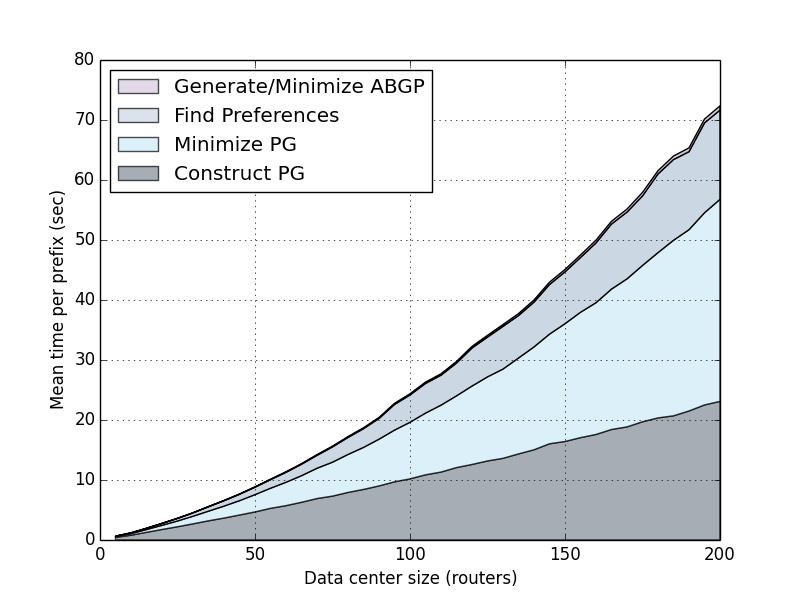
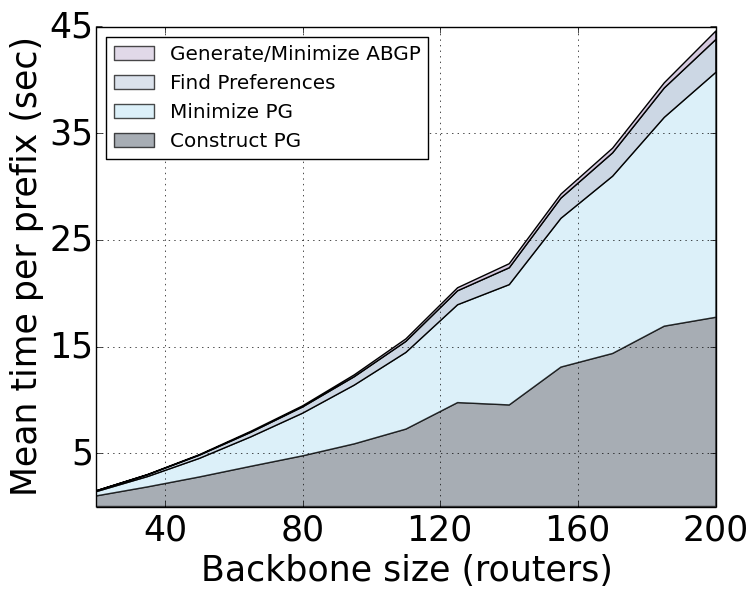
updating experiments

diff --git a/data/backbone.py b/data/backbone.py
@@ -32,16 +32,16 @@ with open(direct + os.path.sep + 'stats-backbone.csv') as f:
     tpp_compress_mean.append(row[25])
 
 # remove header info, and convert type
-num_pods = map(int, num_pods[2:])
-num_nodes = map(int, num_nodes[2:])
-sizes_raw = map(int, sizes_raw[2:])
-sizes_compressed = map(int, sizes_compressed[2:])
-tpp_total_mean = map(float, tpp_total_mean[2:])
-tpp_build_mean = map(float, tpp_build_mean[2:])
-tpp_minimize_mean = map(float, tpp_minimize_mean[2:])
-tpp_order_mean = map(float, tpp_order_mean[2:])
-tpp_gen_mean = map(float, tpp_gen_mean[2:])
-tpp_compress_mean = map(float, tpp_compress_mean[2:])
+num_pods = map(int, num_pods[1:])
+num_nodes = map(int, num_nodes[1:])
+sizes_raw = map(int, sizes_raw[1:])
+sizes_compressed = map(int, sizes_compressed[1:])
+tpp_total_mean = map(float, tpp_total_mean[1:])
+tpp_build_mean = map(float, tpp_build_mean[1:])
+tpp_minimize_mean = map(float, tpp_minimize_mean[1:])
+tpp_order_mean = map(float, tpp_order_mean[1:])
+tpp_gen_mean = map(float, tpp_gen_mean[1:])
+tpp_compress_mean = map(float, tpp_compress_mean[1:])
 
 #====================================================
 # 
@@ -77,11 +77,12 @@ ax1.fill_between(num_nodes, 0, y_stack[0,:], facecolor=color1, alpha=.7)
 ax1.fill_between(num_nodes, y_stack[0,:], y_stack[1,:], facecolor=color2, alpha=.7)
 ax1.fill_between(num_nodes, y_stack[1,:], y_stack[2,:], facecolor=color3)
 ax1.fill_between(num_nodes, y_stack[2,:], y_stack[3,:], facecolor=color4)
-#ax1.fill_between(num_nodes, y_stack[3,:], y_stack[4,:], facecolor=color5)
-ax1.set_xlabel('Backbone size (routers)', fontsize=20)
-ax1.set_ylabel('Mean time per prefix (sec)', fontsize=20)
-ax1.tick_params(axis='both', which='major', labelsize=18)
-ax1.tick_params(axis='both', which='minor', labelsize=18)
+ax1.set_xlabel('Routers', fontsize=35)
+ax1.set_ylabel('Avg. Time / Prefix (s)', fontsize=35)
+ax1.tick_params(axis='both', which='major', labelsize=35)
+ax1.tick_params(axis='both', which='minor', labelsize=35)
+ax1.xaxis.set_ticks([40,80,120,160,200])
+ax1.yaxis.set_ticks([5,15,25,35,45])
 #ax1.set_xlim([0,1400])
 #ax1.set_ylim([0,20])
 # custom legend for stack color
@@ -89,20 +90,11 @@ p1 = plt.Rectangle((0, 0), 1, 1, fc=color1, alpha=.7)
 p2 = plt.Rectangle((0, 0), 1, 1, fc=color2, alpha=.7)
 p3 = plt.Rectangle((0, 0), 1, 1, fc=color3, alpha=.7)
 p4 = plt.Rectangle((0, 0), 1, 1, fc=color4, alpha=.7)
-#p5 = plt.Rectangle((0, 0), 1, 1, fc=color5, alpha=.7)
 leg_boxes = [p4, p3, p2, p1]
-descrs = ["Generate/Minimize ABGP", "Find Preferences", "Minimize PG", "Construct PG"]
-ax1.legend(leg_boxes, descrs, loc=2)
-fig.savefig('compilation-time-stacked.png')
+descrs = ["Gen/Min ABGP", "Find Preferences", "Minimize PG", "Construct PG"]
+ax1.legend(leg_boxes, descrs, loc=2, fontsize=20)
+fig.savefig('compilation-time-backbone.png', bbox_inches='tight')
 
-# plot figures 
-fig = plt.figure()
-plt.grid()
-plt.plot(num_nodes, tpp_total_mean, label='Total')
-plt.xlabel('Data center size (routers)')
-plt.ylabel('Mean time per prefix (sec)')
-plt.legend(loc=2)
-fig.savefig('compilation-time.png')
 
 #====================================================
 # 
@@ -117,30 +109,14 @@ sizes_compressed_per = map(lambda (size,n): size/n, zip(sizes_compressed, num_no
 
 fig = plt.figure()
 ax1 = fig.add_subplot(111)
-ax1.bar(num_nodes1, sizes_raw_per, width=25, color=color1, alpha=1, align='center', log=True) # use log=true
-ax1.bar(num_nodes2, sizes_compressed_per, width=20, color=color3, alpha=1, align='center',log=True)
-ax1.set_xlabel('Backbone size (routers)', fontsize=20)
-ax1.set_ylabel('Config Size (lines of ABGP per router)', fontsize=20)
-ax1.tick_params(axis='both', which='major', labelsize=18)
-ax1.tick_params(axis='both', which='minor', labelsize=18)
-#ax1.set_xlim([0,1400])
-#ax1.set_ylim([0,20])
+ax1.bar(num_nodes1, sizes_raw_per, width=4, color=color1, alpha=1, align='center', log=True)
+ax1.bar(num_nodes2, sizes_compressed_per, width=4, color=color3, alpha=1, align='center',log=True)
+ax1.set_xlabel('Routers', fontsize=35)
+ax1.set_ylabel('ABGP Lines/Router', fontsize=35)
+ax1.tick_params(axis='both', which='major', labelsize=35)
+ax1.tick_params(axis='both', which='minor', labelsize=35)
+ax1.set_xlim([0,220])
 leg_boxes = [p1, p3]
 descrs = ["Raw Config", "Minimized Config"]
 ax1.legend(leg_boxes, descrs, loc=2)
-fig.savefig('config-compression-backbone.png')
-
-#====================================================
-# 
-# Size of generated vs compressed ABGP (percent line)
-#
-#====================================================
-
-#percent_reduction = map(lambda (x,y): float(x-y)/float(x), zip(sizes_raw, sizes_compressed))
-
-#fig = plt.figure()
-#plt.grid()
-#plt.plot(num_nodes, percent_reduction)
-#plt.xlabel('Data center size (routers)')
-#plt.ylabel('Config size reduction (percent)')
-#fig.savefig('config-compression-perc-dc.png')
+fig.savefig('config-compression-backbone.png', bbox_inches='tight')

diff --git a/data/datacenter.py b/data/datacenter.py
@@ -78,31 +78,23 @@ ax1.fill_between(num_nodes, y_stack[0,:], y_stack[1,:], facecolor=color2, alpha=
 ax1.fill_between(num_nodes, y_stack[1,:], y_stack[2,:], facecolor=color3)
 ax1.fill_between(num_nodes, y_stack[2,:], y_stack[3,:], facecolor=color4)
 #ax1.fill_between(num_nodes, y_stack[3,:], y_stack[4,:], facecolor=color5)
-ax1.set_xlabel('Data center size (routers)', fontsize=20)
-ax1.set_ylabel('Mean time per prefix (sec)', fontsize=20)
-ax1.tick_params(axis='both', which='major', labelsize=18)
-ax1.tick_params(axis='both', which='minor', labelsize=18)
+ax1.set_xlabel('Routers', fontsize=35)
+ax1.set_ylabel('Avg. Time / Prefix (s)', fontsize=35)
+ax1.tick_params(axis='both', which='major', labelsize=35)
+ax1.tick_params(axis='both', which='minor', labelsize=35)
 ax1.set_xlim([0,1400])
-ax1.set_ylim([0,20])
+ax1.set_ylim([0,15])
+ax1.xaxis.set_ticks([200,600,1000,1400])
+ax1.yaxis.set_ticks([0,5,10,15])
 # custom legend for stack color
 p1 = plt.Rectangle((0, 0), 1, 1, fc=color1, alpha=.7)
 p2 = plt.Rectangle((0, 0), 1, 1, fc=color2, alpha=.7)
 p3 = plt.Rectangle((0, 0), 1, 1, fc=color3, alpha=.7)
 p4 = plt.Rectangle((0, 0), 1, 1, fc=color4, alpha=.7)
-#p5 = plt.Rectangle((0, 0), 1, 1, fc=color5, alpha=.7)
 leg_boxes = [p4, p3, p2, p1]
-descrs = ["Generate/Minimize ABGP", "Find Preferences", "Minimize PG", "Construct PG"]
-ax1.legend(leg_boxes, descrs, loc=2)
-fig.savefig('compilation-time-stacked.png')
-
-# plot figures 
-fig = plt.figure()
-plt.grid()
-plt.plot(num_nodes, tpp_total_mean, label='Total')
-plt.xlabel('Data center size (routers)')
-plt.ylabel('Mean time per prefix (sec)')
-plt.legend(loc=2)
-fig.savefig('compilation-time.png')
+descrs = ["Gen/Min ABGP", "Find Preferences", "Minimize PG", "Construct PG"]
+ax1.legend(leg_boxes, descrs, loc=2, fontsize=20)
+fig.savefig('compilation-time-dc.png', bbox_inches='tight')
 
 #====================================================
 # 
@@ -118,29 +110,16 @@ sizes_compressed_per = map(lambda (size,n): size/n, zip(sizes_compressed, num_no
 fig = plt.figure()
 ax1 = fig.add_subplot(111)
 ax1.bar(num_nodes1, sizes_raw_per, width=25, color=color1, alpha=1, align='center', log=True) # use log=true
-ax1.bar(num_nodes2, sizes_compressed_per, width=20, color=color3, alpha=1, align='center',log=True)
-ax1.set_xlabel('Data center size (routers)', fontsize=20)
-ax1.set_ylabel('Config Size (lines of ABGP per router)', fontsize=20)
-ax1.tick_params(axis='both', which='major', labelsize=18)
-ax1.tick_params(axis='both', which='minor', labelsize=18)
+ax1.bar(num_nodes2, sizes_compressed_per, width=25, color=color3, alpha=1, align='center',log=True)
+ax1.set_xlabel('Routers', fontsize=35)
+ax1.set_ylabel('ABGP Lines/Router', fontsize=35)
+ax1.tick_params(axis='both', which='major', labelsize=35)
+ax1.tick_params(axis='both', which='minor', labelsize=35)
+
+ax1.xaxis.set_ticks([200,600,1000,1400])
 #ax1.set_xlim([0,1400])
 #ax1.set_ylim([0,20])
 leg_boxes = [p1, p3]
 descrs = ["Raw Config", "Minimized Config"]
 ax1.legend(leg_boxes, descrs, loc=2)
-fig.savefig('config-compression-dc.png')
-
-#====================================================
-# 
-# Size of generated vs compressed ABGP (percent line)
-#
-#====================================================
-
-#percent_reduction = map(lambda (x,y): float(x-y)/float(x), zip(sizes_raw, sizes_compressed))
-
-#fig = plt.figure()
-#plt.grid()
-#plt.plot(num_nodes, percent_reduction)
-#plt.xlabel('Data center size (routers)')
-#plt.ylabel('Config size reduction (percent)')
-#fig.savefig('config-compression-perc-dc.png')
+fig.savefig('config-compression-dc.png', bbox_inches='tight')

diff --git a/paper/evaluation.tex b/paper/evaluation.tex
@@ -66,4 +66,15 @@ $ii)$ operators prevented unneeded propagation of more-specific route advertisem
 %
 $iii)$ operators used a layer of indirection using community groups and re-writing to implement certain policies in a more maintainable way, where \sysname uses flat communities. We are currently investigating if such differences matter to operators (e.g., if they want to read \sysname configurations) and, if necessary, how to reduce them.
 
-
+\begin{figure}[ht]
+\centering
+\begin{minipage}[b]{0.45\linewidth}
+\includegraphics[width=1.2\columnwidth]{figures/compilation-times-dc.png}
+\end{minipage}
+\quad
+\begin{minipage}[b]{0.45\linewidth}
+\includegraphics[width=1.2\columnwidth]{figures/compilation-times-backbone.png}
+\end{minipage}
+\caption{Sad Smiley}
+\label{fig:minipage2}
+\end{figure}

diff --git a/paper/paper.tex b/paper/paper.tex
@@ -15,6 +15,7 @@
 \let\proof\relax
 \let\endproof\relax
 \usepackage{amsthm}
+\usepackage{subfigure}
 
 \definecolor{princetonorange}{RGB}{255,143,0}
 \definecolor{tmlblue}{RGB}{0,58,120}  % tmlblue == Toronto Maple Leafs Blue!
